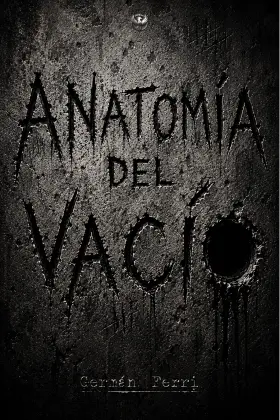
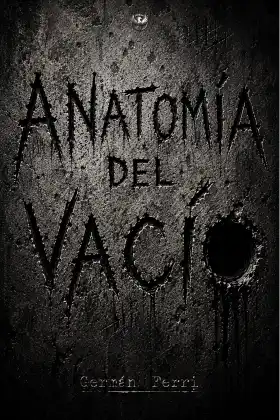
perf(archivo): el velo del hero es una máscara (contraste 96 → 100), portada móvil de Anatomía más ligera, y una sola lectura de la ventana al construir el archivo
PageSpeed de /obras/ en móvil (Ruben, 8-sep-2026): 98 · 96 · 100 · 100.
Las tres cosas pequeñas que se podían arreglar sin tocar la estética:

1. CONTRASTE. El único fallo de accesibilidad no era el color: el auditor
   hace su foto en un instante fijo tras la carga que cae en mitad del
   fundido de las frases del hero, y leía el gris al 75 % de opacidad
   (#464646, 2,2:1) en vez del final. Comprobado en local con la misma
   frase al 74 % y el susurro al 73 % en otro instante. La opacidad se
   multiplica en el color calculado; una mascara no. Asi que el velo de
   .hero-frase es ahora un mask-image que se levanta de arriba abajo con
   borde difuminado (--velo registrado con @property, de -35 % a 100 %),
   y la frase sigue subiendo y enfocandose igual. Misma coreografia, mismos
   tiempos. La linea editorial pasa ademas de #5d5d5d (3,2:1) a #7a7a7a
   (4,9:1), todavia por debajo del #9a9a9a del susurro: sello, no frase.
   Lighthouse local: accesibilidad 100, sin nodos de contraste.

2. IMAGEN. Portada movil de Anatomia: 29,6 KB → 21,9 KB (q45 desde el
   PNG original, a 3 aumentos no se distingue). Insight de imagen: limpio.

3. FORCED REFLOW. _buildArchiveGrid leia window.innerWidth dos veces
   despues de insertar columnas y puntos, obligando a recalcular el layout
   a mitad de construccion. Ahora se lee una vez, antes de tocar el DOM.

No tocado a proposito (HANDOVER): Speed Index 4,3 s es la coreografia del
[…]

diff --git a/src/css/archive.css b/src/css/archive.css
@@ -125,9 +125,20 @@ html[lang="en"] .lang-toggle button[data-set-lang="en"]:hover { color: #9a9a9a; 
 .site-hero-sub { color: #9a9a9a; max-width: none; white-space: nowrap; }
 /* Cada frase entra por su cuenta: un velo que se levanta, no un bloque que
    aparece. Los retardos escalonados los pone .archive-visible más abajo. */
+/* EL VELO ES UNA MÁSCARA, NO UNA OPACIDAD (PageSpeed, 8-sep-2026). El
+   auditor de contraste hace su foto en un instante fijo tras la carga, que
+   caía en mitad del fundido: leía el gris al 75 % (#464646, 2,2:1) y daba
+   por malo un texto cuyo color final cumple de sobra. La opacidad se
+   multiplica en el color calculado; una máscara no. Así que el velo se
+   levanta de arriba abajo con un borde difuminado (--velo recorre de -35 %
+   a 100 %), y la frase sigue subiendo y enfocándose igual que antes. */
+@property --velo { syntax: '<percentage>'; inherits: false; initial-value: -35%; }
 .hero-frase {
-  display: block; opacity: 0; transform: translateY(12px);
+  display: block; transform: translateY(12px);
   filter: blur(3px);
+  --velo: -35%;
+  -webkit-mask-image: linear-gradient(to bottom, #000 0, #000 var(--velo), transparent calc(var(--velo) + 35%));
+          mask-image: linear-gradient(to bottom, #000 0, #000 var(--velo), transparent calc(var(--velo) + 35%));
 }
 .archive-visible .site-hero-sub .hero-frase { animation: heroFrase 1.4s cubic-bezier(0.2, 0.9, 0.25, 1) forwards; }
 .archive-visible .site-hero-sub .hero-frase:nth-child(1) { animation-delay: 1.15s; }
@@ -137,13 +148,17 @@ html[lang="en"] .lang-toggle button[data-set-lang="en"]:hover { color: #9a9a9a; 
 .hero-frase--inline { display: inline-block; }
 .hero-frase--inline + .hero-frase--inline { margin-left: 0.6em; }
 @keyframes heroFrase {
-  to { opacity: 1; transform: translateY(0); filter: blur(0); }
+  to { --velo: 100%; transform: translateY(0); filter: blur(0); }
 }
 /* Las versalitas VUELVEN (Ruben, 8-ago: «i liked the second sentence in all
    caps») — la unificación del 7-ago se pasó de lista: la línea editorial es
    un sello, no una frase más del susurro. Caja alta, pequeña y espaciada. */
 /* p.—: gana a «.site-hero p» (0,1,1), que si no le impone 15px cursiva. */
-.site-hero p.site-hero-editorial { font-size: 10.5px; color: #5d5d5d; letter-spacing: 3.5px; text-transform: uppercase; margin: 14px auto 0; max-width: 640px; font-style: normal; }
+/* #7a7a7a, no #5d5d5d (PageSpeed 8-sep-2026, único fallo de accesibilidad):
+   a 10,5px la norma pide 4,5:1 sobre el negro y el gris de antes daba 3,2:1.
+   Este da 4,9:1 y sigue por debajo del #9a9a9a del susurro: el sello no
+   compite con las frases, solo se deja leer. */
+.site-hero p.site-hero-editorial { font-size: 10.5px; color: #7a7a7a; letter-spacing: 3.5px; text-transform: uppercase; margin: 14px auto 0; max-width: 640px; font-style: normal; }
 #editorial-watermark {
   position: fixed; bottom: max(16px, env(safe-area-inset-bottom, 16px)); left: 50%; transform: translateX(-50%);
   font-size: 9px; letter-spacing: 4px; text-transform: uppercase;

diff --git a/src/js/ui/ArchiveDOM.js b/src/js/ui/ArchiveDOM.js
@@ -249,6 +249,12 @@ export class ArchiveDOM {
   }
 
   _buildArchiveGrid() {
+    /* La ventana se lee UNA vez, antes de tocar el DOM. Leerla después de
+       insertar columnas y puntos obligaba al navegador a recalcular el layout
+       dos veces a mitad de construcción (PageSpeed 8-sep-2026: «forced
+       reflow» en estas dos líneas). Los manejadores de clic y scroll siguen
+       leyéndola en vivo, que ahí no hay escritura pendiente. */
+    const esMovil = window.innerWidth <= 768;
     const grid = document.getElementById('obras-section');
     if (!grid) return;
     grid.classList.add('archive-grid');
@@ -430,7 +436,7 @@ export class ArchiveDOM {
     // Shown once per visitor, dies on the first horizontal scroll.
     let swipeHint = null;
     try {
-      if (window.innerWidth <= 768 && !localStorage.getItem('sw_swiped')) {
+      if (esMovil && !localStorage.getItem('sw_swiped')) {
         swipeHint = document.createElement('div');
         swipeHint.className = 'swipe-hint';
         swipeHint.textContent = t('archive.swipe-hint');
@@ -440,7 +446,7 @@ export class ArchiveDOM {
 
     // Mobile: update dots on scroll
     // Mobile: mark first column active by default
-    if (window.innerWidth <= 768) {
+    if (esMovil) {
       const firstCol = grid.querySelector('.archive-col');
       firstCol?.classList.add('archive-col--active');
     }

diff --git a/HANDOVER.md b/HANDOVER.md
@@ -100,6 +100,32 @@ sola cuenta, dos carriles** — verificado en las fuentes el 8-sep:
   `frase-sin-micro-{1,2}.mp3` a pelo. Ahora rota por el banco del idioma
   de la web: 2 tomas ES, 4 EN (`frase-sin-micro-en-1..4`).
 
+### PageSpeed de /obras/ (móvil) — 98 · 96 · 100 · 100, y lo que se tocó
+Ruben pasó PSI (https://pagespeed.web.dev/analysis/https-soulware-live-obras/e4z661b1mk?form_factor=mobile):
+FCP 1,1 s · LCP 1,4 s · TBT 0 · CLS 0 · SI 4,3 s (naranja). La API anónima
+de PSI ya no da cuota (429): se audita con `npx lighthouse` en local.
+- **Contraste (único fallo de accesibilidad, 96 → 100)**: el auditor hace su
+  foto en un instante fijo tras la carga que cae EN MITAD del fundido de las
+  frases del hero: leía #464646 (el gris al 75 % de opacidad), no el color
+  del CSS. Arreglo de raíz: el velo de `.hero-frase` es ahora una MÁSCARA
+  (`--velo` registrado con @property, de −35 % a 100 %, borde difuminado)
+  en vez de opacidad — la opacidad se multiplica en el color calculado, una
+  máscara no. Misma coreografía y tiempos. Además la línea editorial pasa de
+  #5d5d5d (3,2:1) a #7a7a7a (4,9:1), aún por debajo del #9a9a9a del susurro.
+- **Imagen**: la portada móvil de Anatomía baja de 29,6 KB a 21,9 KB (q45
+  desde el PNG de Descargas; a 3× no se distingue).
+- **Forced reflow**: `_buildArchiveGrid` leía `innerWidth` dos veces tras
+  insertar DOM; ahora una vez al principio. El resto de lecturas (clic,
+  scroll, luciérnagas) son inocuas.
+- **NO tocado, a propósito**: Speed Index 4,3 s es la coreografía del
+  archivo (frases a 1,15/1,6/2,0/2,45 s + 1,4 s) — decisión artística, no
+  lentitud; caché de 7 días en vídeos/portadas (netlify.toml explica por
+  qué); CSS render-blocking (es la hoja principal, inevitable); «unused JS
+  21 KiB» (partir el bundle no compensa); animaciones no compuestas (cofre).
+- OJO en Lighthouse local: mi Chrome inyecta un script de 98 KB con una URL
+  base64 en soulware.live que NO existe en el sitio (Netlify le da 404):
+  ignorarlo — el informe de Google no lo tiene.
+
 ### Pendientes vivos
 - Ruben (5 min): probar la rama `gemini-3-flash-preview` del agente de
   ElevenLabs y promoverla (Branches → traffic split), antes del 20-oct.
